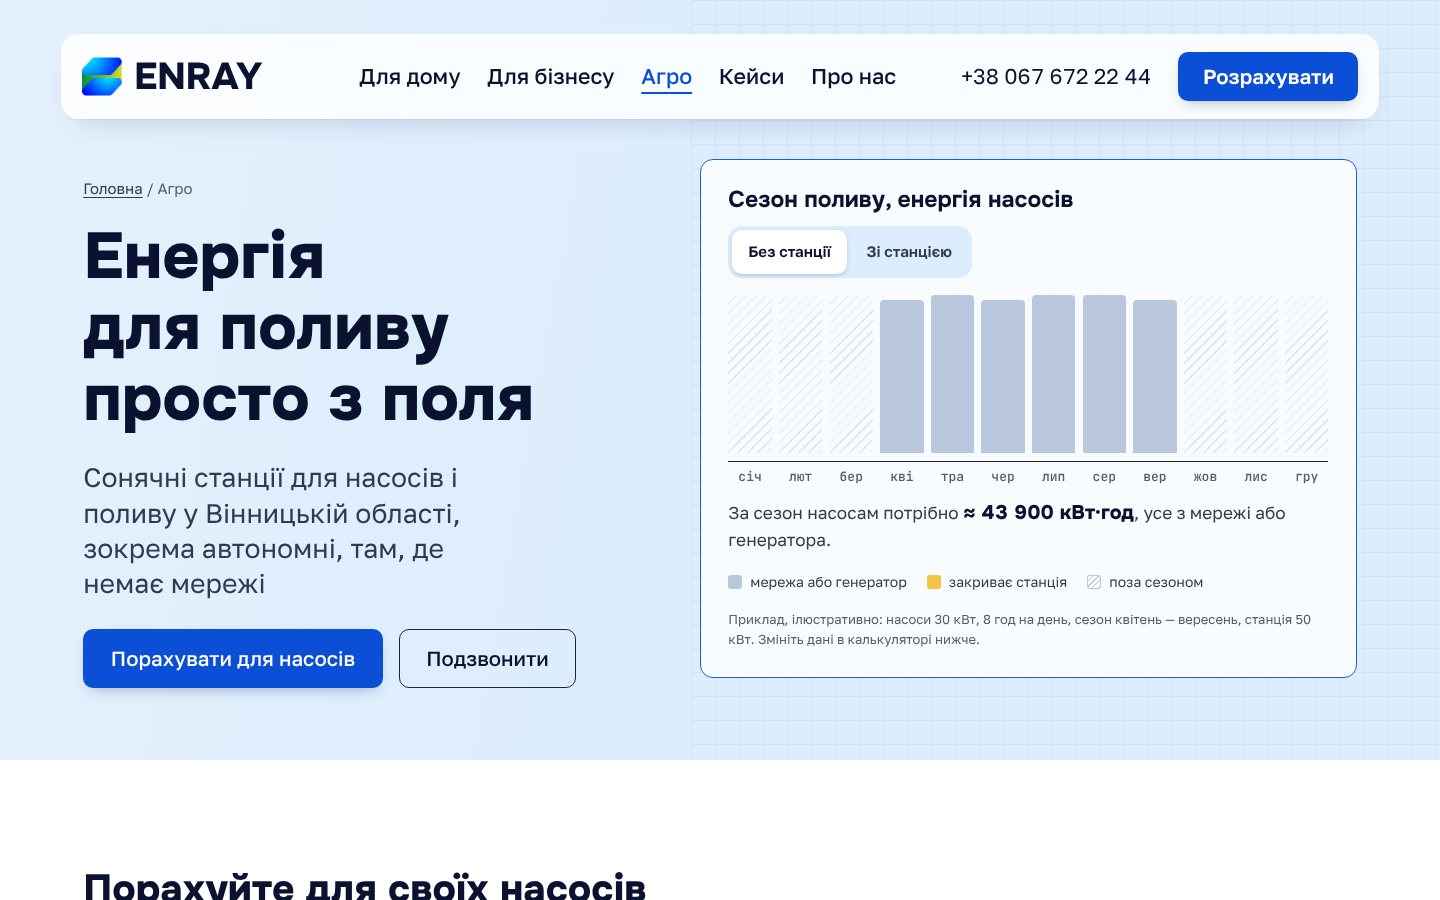
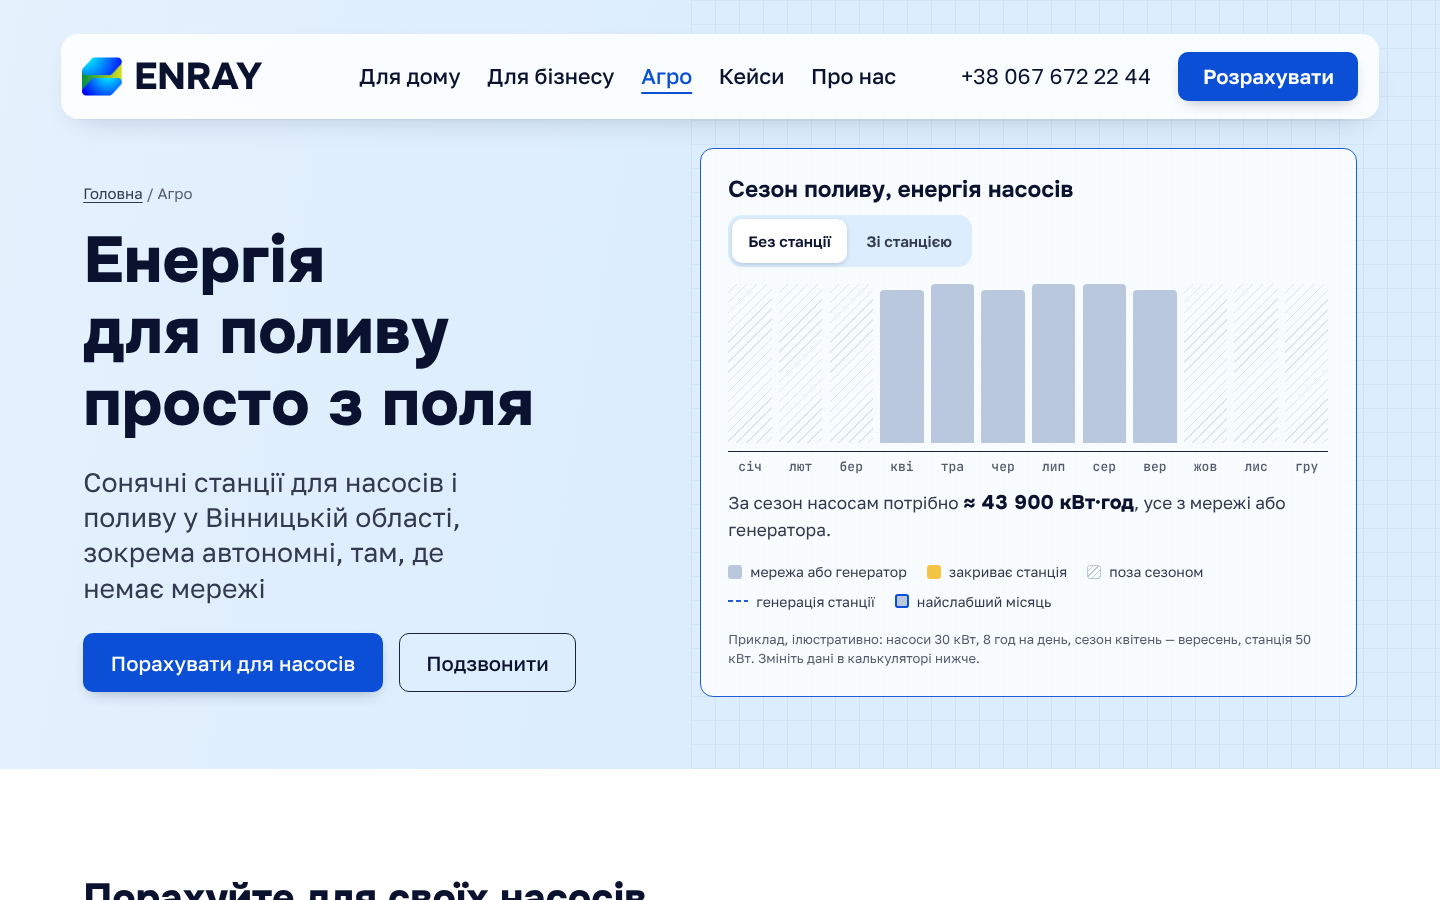
Apply finish-review fixes to Агро page
Station kW reaches the request form, wave stagger only on toggle (live
inputs update instantly, also on Бізнес), dashed station-generation
marks and weakest-month outline with legend and table caption, recrop
of the Luka-Meleshkivska plate to reservoir/orchard/array shown
uncropped with detail photo below, readable percent unit, three-state
example label, true static defaults without JS.

Claude-Session: https://claude.ai/code/session_01KGfZvnn7nUXhb1RoE8ibfu

diff --git a/enray/agro/index.html b/enray/agro/index.html
@@ -76,18 +76,20 @@
         <div class="bill-cols season-cols" id="season-cols"></div>
         <div class="bill-scale"><span data-s="С">січ</span><span data-s="Л">лют</span><span data-s="Б">бер</span><span data-s="К">кві</span><span data-s="Т">тра</span><span data-s="Ч">чер</span><span data-s="Л">лип</span><span data-s="С">сер</span><span data-s="В">вер</span><span data-s="Ж">жов</span><span data-s="Л">лис</span><span data-s="Г">гру</span></div>
       </div>
-      <p class="day-summary" id="season-summary" aria-live="polite"></p>
+      <p class="day-summary" id="season-summary" aria-live="polite">За сезон насосам потрібно <b>≈ 43 900 кВт·год</b>, усе з мережі або генератора.</p>
       <ul class="legend" aria-hidden="true">
         <li><i class="sw sw--grid"></i>мережа або генератор</li>
         <li><i class="sw sw--sun"></i>закриває станція</li>
         <li><i class="sw sw--idle"></i>поза сезоном</li>
+        <li><i class="sw sw--gen"></i>генерація станції</li>
+        <li><i class="sw sw--weak"></i>найслабший місяць</li>
       </ul>
       <table class="sr-only" id="season-table">
-        <caption>Енергія насосів по місяцях сезону, кВт·год</caption>
+        <caption id="season-caption">Енергія насосів по місяцях сезону, кВт·год</caption>
         <thead><tr><th scope="col">Місяць</th><th scope="col">Потрібно насосам</th><th scope="col">Закриває станція</th></tr></thead>
         <tbody></tbody>
       </table>
-      <p class="day-note" id="season-note"></p>
+      <p class="day-note" id="season-note">Приклад, ілюстративно: насоси 30 кВт, 8 год на день, сезон квітень — вересень, станція 50 кВт. Змініть дані в калькуляторі нижче.</p>
     </figure>
   </section>
 
@@ -127,8 +129,8 @@
       </div>
       <div class="rezerv-result" aria-live="polite">
         <p class="rz-label" id="a-cover-label">Станція закриває за сезон · приклад</p>
-        <p class="rz-kwh"><span id="a-cover">≈ 86</span> <small>%</small></p>
-        <p class="bi-sentence" id="a-sentence"></p>
+        <p class="rz-kwh"><span id="a-cover">≈ 93</span>&nbsp;<span class="rz-pct">%</span></p>
+        <p class="bi-sentence" id="a-sentence">Насосам потрібно ≈ 43 900 кВт·год за сезон. Щоб закрити й найслабший місяць (вересень), потрібно ≈ 70 кВт панелей.</p>
         <div class="bill-mini" aria-hidden="true">
           <div class="bill-cols bill-cols--mini season-cols" id="season-mini"></div>
         </div>
@@ -141,15 +143,21 @@
   <section class="section case-feature" aria-labelledby="case-h">
     <h2 id="case-h">Полив саду в Луці-Мелешківській</h2>
     <div class="cf-grid">
-      <figure class="cf-main">
-        <img src="../assets/plates/agro-case.webp" width="1280" height="694" alt="Сонячна станція 100 кВт на даху господарської будівлі поруч із водоймою і садом у селі Лука-Мелешківська" loading="lazy">
-        <svg class="callouts" viewBox="0 0 1280 694" preserveAspectRatio="xMidYMax slice" aria-hidden="true" focusable="false">
-          <text x="610" y="282" text-anchor="middle">100 кВт</text>
-          <text class="c-wide" x="300" y="226" text-anchor="start">полив саду · 2025</text>
-          <text class="c-narrow" x="380" y="226" text-anchor="middle">полив · 2025</text>
-          <text x="880" y="218" text-anchor="middle">монтаж — 10 днів</text>
+      <div class="cf-left">
+      <figure class="cf-main cf-main--wide">
+        <img src="../assets/plates/agro-case.webp" width="1440" height="707" alt="Сонячна станція 100 кВт на даху господарської будівлі поруч із водоймою і садом у селі Лука-Мелешківська" loading="lazy">
+        <svg class="callouts" viewBox="0 0 1440 707" preserveAspectRatio="xMidYMax slice" aria-hidden="true" focusable="false">
+          <text x="669" y="358" text-anchor="middle">100 кВт</text>
+          <text class="c-wide" x="278" y="290" text-anchor="start">полив саду · 2025</text>
+          <text class="c-narrow" x="380" y="290" text-anchor="middle">полив · 2025</text>
+          <text x="1011" y="280" text-anchor="middle">монтаж — 10 днів</text>
         </svg>
       </figure>
+        <figure class="cf-inverter">
+          <img src="../assets/plates/agro-detail.webp" width="800" height="600" alt="Ряди сонячних панелей на даху господарської будівлі, поруч сад і водойма" loading="lazy">
+          <figcaption>Панелі на даху господарської будівлі, той самий об'єкт</figcaption>
+        </figure>
+      </div>
       <div class="cf-side">
         <dl class="cf-spec">
           <div><dt>Потужність</dt><dd>100 кВт</dd></div>
@@ -159,10 +167,6 @@
           <div><dt>Монтаж</dt><dd>10 днів</dd></div>
         </dl>
         <p class="cf-note">Обстежили ділянку й затінення, розрахували потужність під пікові навантаження поливу, змонтували станцію й налаштували її разом із системою поливу.</p>
-        <figure class="cf-inverter">
-          <img src="../assets/plates/agro-detail.webp" width="800" height="600" alt="Ряди сонячних панелей на даху господарської будівлі, поруч сад і водойма" loading="lazy">
-          <figcaption>Панелі на даху господарської будівлі, той самий об'єкт</figcaption>
-        </figure>
       </div>
     </div>
   </section>
@@ -216,7 +220,8 @@
         <div class="field"><label for="f-pump">Насоси, кВт</label><input id="f-pump" name="pump" type="text" inputmode="numeric" placeholder="сумарно, якщо знаєте"></div>
         <div class="field"><label for="f-hours">Годин поливу на день</label><input id="f-hours" name="hours" type="text" inputmode="numeric" placeholder="наприклад, 8"></div>
         <div class="field"><label for="f-season">Сезон поливу</label><input id="f-season" name="season" type="text" placeholder="наприклад, квітень — вересень"></div>
-        <div class="field field--wide"><label for="f-water">Джерело води і чи є мережа на ділянці</label><input id="f-water" name="water" type="text" placeholder="наприклад, свердловина, мережі немає"></div>
+        <div class="field"><label for="f-kw">Потужність станції, кВт (орієнтир)</label><input id="f-kw" name="kw" type="text" inputmode="numeric" placeholder="якщо знаєте"></div>
+        <div class="field"><label for="f-water">Джерело води і чи є мережа на ділянці</label><input id="f-water" name="water" type="text" placeholder="наприклад, свердловина, мережі немає"></div>
         <button class="btn btn-primary btn-lg" type="submit">Надіслати запит</button>
         <p class="form-msg" id="form-msg" role="status"></p>
       </form>

diff --git a/enray/assets/js/scenario.js b/enray/assets/js/scenario.js
@@ -186,7 +186,10 @@
     });
     bKw.addEventListener('input', function () { mine.kw = true; render(); });
     document.querySelectorAll('input[name=share]').forEach(function (i) { i.addEventListener('change', function () { mine.share = true; render(); }); });
-    bindToggle(function (md) { mode = md; chart.dataset.mode = md; render(); });
+    var liveB = function () { chart.classList.add('is-live'); if (mini) mini.classList.add('is-live'); };
+    [bBill, bBillNum, bTariff, bKw].forEach(function (i) { i.addEventListener('input', liveB); });
+    document.querySelectorAll('input[name=share]').forEach(function (i) { i.addEventListener('change', liveB); });
+    bindToggle(function (md) { mode = md; chart.dataset.mode = md; chart.classList.remove('is-live'); render(); });
     if (form) form.addEventListener('enray:reset', render);
     if (reduce) { chart.classList.add('no-motion'); if (mini) mini.classList.add('no-motion'); }
     render();
@@ -216,7 +219,7 @@
         var c = document.createElement('span');
         c.className = 'scol';
         c.style.setProperty('--i', m);
-        c.innerHTML = '<span class="scol-need"><span class="bcol-sun"></span></span>';
+        c.innerHTML = '<span class="scol-need"><span class="bcol-sun"></span></span><span class="gen-mark"></span>';
         box.appendChild(c);
       }
     };
@@ -230,7 +233,7 @@
         var on = inSeason(m, a, b);
         var need = on ? pump * hours * d : 0;
         var gen = kw * YA * FA[m];
-        return { on: on, need: need, cover: Math.min(need, gen), full: on && gen >= need, kwNeed: on ? need / (YA * FA[m]) : 0 };
+        return { on: on, need: need, gen: gen, cover: Math.min(need, gen), full: on && gen >= need, kwNeed: on ? need / (YA * FA[m]) : 0 };
       });
       var need = months.reduce(function (s, x) { return s + x.need; }, 0);
       var cover = months.reduce(function (s, x) { return s + x.cover; }, 0);
@@ -246,6 +249,8 @@
         col.classList.toggle('is-idle', !x.on);
         col.style.setProperty('--need', (x.need / max * 100) + '%');
         col.style.setProperty('--sun', (on && x.need ? x.cover / x.need * 100 : 0) + '%');
+        col.style.setProperty('--gen', Math.min(100, x.gen / max * 100) + '%');
+        col.classList.toggle('is-weak', on && i === r.weakest && r.months[i].cover < r.months[i].need);
       }
     };
 
@@ -253,13 +258,16 @@
       var r = calcA();
       var pct = r.need ? Math.round(r.cover / r.need * 100) : 0;
       paintA(sCols, r, aMode === 'on');
+      sCols.classList.toggle('is-on', aMode === 'on');
       if (sMini) paintA(sMini, r, true);
       g('a-pump-out').textContent = r.pump + ' кВт';
       g('a-hours-out').textContent = r.hours + ' год';
       g('a-kw-out').textContent = r.kw + ' кВт';
       g('a-cover').textContent = '≈ ' + pct;
       var anyA = own.pump || own.hours || own.season || own.kw;
-      g('a-cover-label').textContent = 'Станція закриває за сезон · ' + (own.pump && own.hours ? 'за вашими даними' : 'приклад');
+      var allA = own.pump && own.hours && own.season && own.kw;
+      g('a-cover-label').textContent = 'Станція закриває за сезон · ' + (allA ? 'за вашими даними' : anyA ? 'частково приклад' : 'приклад');
+      g('season-caption').textContent = 'Енергія насосів по місяцях сезону, кВт·год. Найслабший місяць — ' + MN[r.weakest] + '.';
       g('a-sentence').textContent = 'Насосам потрібно ≈ ' + fmt.format(Math.round(r.need / 100) * 100) + ' кВт·год за сезон. ' +
         (pct >= 100 ? 'Станції ' + r.kw + ' кВт вистачає на кожен місяць сезону.'
                     : 'Щоб закрити й найслабший місяць (' + MN[r.weakest] + '), потрібно ≈ ' + r.kwFull + ' кВт панелей.');
@@ -285,12 +293,13 @@
         return '<tr><td>' + MN[i] + '</td><td>' + fmt.format(Math.round(x.need)) + '</td><td>' + fmt.format(Math.round(x.cover)) + '</td></tr>';
       }).join('');
       var put = function (id, ok, v) { var f = g(id); if (f && ok) f.value = v; };
-      put('f-pump', own.pump, r.pump); put('f-hours', own.hours, r.hours); put('f-season', own.season, MN[r.a] + ' — ' + MN[r.b]);
+      put('f-kw', own.kw, r.kw); put('f-pump', own.pump, r.pump); put('f-hours', own.hours, r.hours); put('f-season', own.season, MN[r.a] + ' — ' + MN[r.b]);
     };
 
-    [['pump', aPump], ['hours', aHours], ['kw', aKw]].forEach(function (p) { p[1].addEventListener('input', function () { own[p[0]] = true; renderA(); }); });
-    [aFrom, aTo].forEach(function (s) { s.addEventListener('change', function () { own.season = true; renderA(); }); });
-    bindToggle(function (md) { aMode = md; sChart.dataset.mode = md; renderA(); });
+    var liveA = function () { sChart.classList.add('is-live'); if (sMini) sMini.classList.add('is-live'); };
+    [['pump', aPump], ['hours', aHours], ['kw', aKw]].forEach(function (p) { p[1].addEventListener('input', function () { own[p[0]] = true; liveA(); renderA(); }); });
+    [aFrom, aTo].forEach(function (s) { s.addEventListener('change', function () { own.season = true; liveA(); renderA(); }); });
+    bindToggle(function (md) { aMode = md; sChart.dataset.mode = md; sChart.classList.remove('is-live'); renderA(); });
     if (form) form.addEventListener('enray:reset', renderA);
     if (reduce) { sChart.classList.add('no-motion'); if (sMini) sMini.classList.add('no-motion'); }
     renderA();

diff --git a/enray/assets/css/scenario.css b/enray/assets/css/scenario.css
@@ -227,3 +227,25 @@
   background-position: calc(100% - 20px) 22px, calc(100% - 14px) 22px; background-size: 6px 6px; background-repeat: no-repeat;
 }
 .bi-select:focus { outline: none; border-color: var(--cobalt); box-shadow: 0 0 0 3px rgba(10,79,214,.18); }
+
+/* Живий режим: під час введення без хвилі, хвиля лише на перемикачі */
+.is-live .bcol-sun, .is-live .scol-need { transition-delay: 0s; transition-duration: .2s; }
+
+/* Агро: генерація станції по місяцях і найслабший місяць */
+.gen-mark {
+  position: absolute; left: -2px; right: -2px; bottom: var(--gen, 0%); height: 0;
+  border-top: 2px dashed var(--cobalt-line); opacity: 0; transition: opacity .3s, bottom .2s; pointer-events: none;
+}
+.season-cols.is-on .gen-mark, .bill-cols--mini .gen-mark { opacity: 1; }
+.scol.is-weak .scol-need { box-shadow: inset 0 0 0 2px var(--cobalt); }
+.legend .sw--gen { width: 20px; height: 2px; border-radius: 0; background: repeating-linear-gradient(90deg, var(--cobalt-line) 0 5px, transparent 5px 8px); }
+.legend .sw--weak { background: var(--st-grid); box-shadow: inset 0 0 0 2px var(--cobalt); }
+.rz-pct { font: 800 .55em/1 var(--f-display); color: var(--ink); }
+
+/* Широке фото кейсу без обрізання (Агро) */
+.cf-main--wide { align-self: start; }
+.cf-main--wide img { height: auto; aspect-ratio: 1440 / 707; }
+.cf-left { display: grid; gap: clamp(16px, 1.6vw, 26px); align-content: start; min-width: 0; }
+.cf-left .cf-inverter img { aspect-ratio: 21 / 8; }
+.cf-main--wide .callouts text { font-size: 32px; stroke-width: 7px; }
+@media (max-width: 720px) { .cf-main--wide .callouts text { font-size: 44px; stroke-width: 9px; } }
